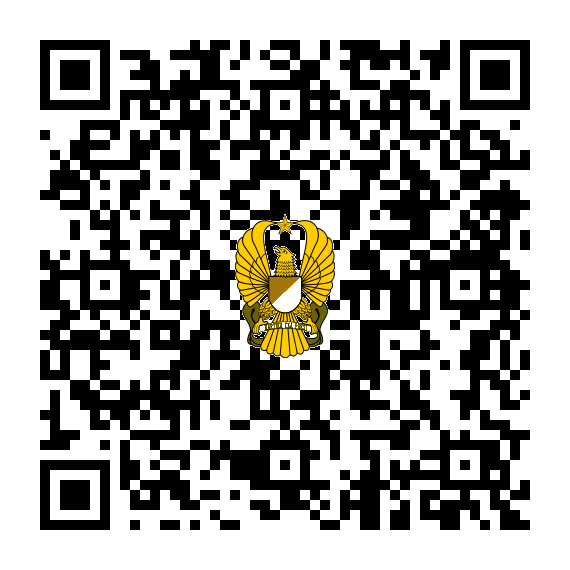
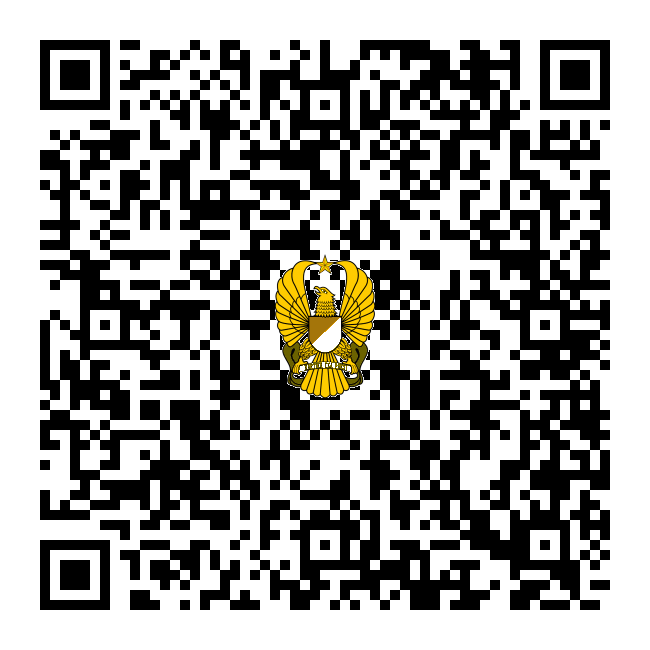
update tag kordinat tte

diff --git a/application/controllers/api/v1/Tte.php b/application/controllers/api/v1/Tte.php
@@ -165,6 +165,12 @@ class Tte extends General
             if (!$data || !isset($data['name'], $data['nik'], $data['sign_image'])) {
                 throw new Exception('Invalid input data');
             }
+
+            $existingData = $this->Tte_model->getAkunTTEbyNik($data['nik']);
+
+            if ($existingData->num_rows() > 0) {
+                throw new Exception('Akun dengan nik ini sudah ada');
+            }
     
             $in['name'] = $data['name'];
             $in['nik'] = $data['nik'];
@@ -219,6 +225,31 @@ class Tte extends General
             ]);
         }
     }
+    function deleteAkunTTE_post()
+    {
+        try {
+            $data = json_decode(file_get_contents('php://input'), true);
+    
+            $nik = $data['nik'];
+    
+            $this->Tte_model->deleteTTE($nik);
+            
+            echo json_encode([
+                'metadata' => [
+                    'code' => 200,
+                    'message' => 'Data delete successfully'
+                ],
+                'response' => $nik
+            ]);
+        } catch (Exception $e) {
+            echo json_encode([
+                'metadata' => [
+                    'code' => 400,
+                    'message' => $e->getMessage()
+                ]
+            ]);
+        }
+    }
     function signfile_post()
     {
         $data = $this->input->post();
@@ -236,6 +267,7 @@ class Tte extends General
             $fileType = $_FILES['file']['type'];
             $fileSize = $_FILES['file']['size'];
             $NameimageTTE = $this->Tte_model->getDataImageTTE($data['nik'])->row()->sign_image;
+            file_put_contents("tag", $data['tag']);
             $imageTTE = $_SERVER['DOCUMENT_ROOT'] . "/api_gateway/resources/image_tte/" . $NameimageTTE;
             $response = tteSign($data['nik'], $data['passphrase'], $tempFile, $data['tag'], $data['image'], $imageTTE);
             switch ($data['applications']) {
@@ -355,7 +387,7 @@ class Tte extends General
         $imageTTE = null;
         if($data['tampilan'] == 'visible'){
             $NameimageTTE = $this->Tte_model->getDataImageTTE($data['nik'])->row()->sign_image;
-            $text = "https://berkastte.rumkitsindhutrisno.com/webapps/berkastte/" . $fileName;
+            $text = "https://qrcodette.rssindhutrisnopalu.com/home/" . $data['location'] . "/" . $data['id'] . "/" . $fileName;
             $filePath = $_SERVER['DOCUMENT_ROOT'] . "/api_gateway/resources/image_tte/" . $NameimageTTE;
             $logoPath = $_SERVER['DOCUMENT_ROOT'] . "/api_gateway/assets/logo_qrcode.png";
             try {

diff --git a/application/helpers/tte_helper.php b/application/helpers/tte_helper.php
@@ -115,7 +115,7 @@ if (!function_exists('tte_helper')) {
                 'linkQR' => 'https://google.com',
                 'width' => $width,
                 'height' => $height,
-                'tag_koordinat' => "#"
+                'tag_koordinat' => $tag
                 // 'page'=>1,
 
             );
@@ -230,12 +230,13 @@ if (!function_exists('tte_helper')) {
         curl_close($curl);
         return $responseFile;
     }
-    function tteSign($nik = null, $passphrase = null, $tempFile = null, $tag = '#', $image = false, $imageFile = null)
+    function tteSign($nik = null, $passphrase = null, $tempFile = null, $tag = '|', $image = false, $imageFile = null)
     {
         $host = config_item("UrlBSSN") . "/api/sign/pdf";
         $curl = curl_init($host);
         $username = config_item("UsernameBSSN");
         $password = config_item("PasswordBSSN");
+        file_put_contents("tag", $tag);
         if ($image == true) {
             $fields = array(
                 'file' => new CurlFile(@$tempFile, 'application/pdf'),
@@ -243,10 +244,10 @@ if (!function_exists('tte_helper')) {
                 'nik' => $nik,
                 'passphrase' => $passphrase,
                 'tampilan' => 'visible',
-                'image' => 'true',
+                // 'image' => 'true',
                 'linkQR' => 'https://google.com',
-                'width' => '250',
-                'height' => '250',
+                'width' => '350',
+                'height' => '350',
                 'tag_koordinat' => $tag
             );
         } else {

diff --git a/application/models/Tte_model.php b/application/models/Tte_model.php
@@ -26,4 +26,24 @@ class Tte_model extends Api_model
         $query = $this->db->get();
         return $query;
     }
+    public function deleteTTE($nik)
+    {
+        if (!empty($nik)) {
+            $this->db->where('nik', $nik);
+            $result = $this->db->delete('akun_tte');
+            return $result;
+        } else {
+            return false;
+        }
+    }
+    public function getAkunTTEbyNik($nik)
+    {
+        if (!empty($nik)) {
+            $this->db->where('nik', $nik);
+            $result = $this->db->get('akun_tte');
+            return $result;
+        } else {
+            return false;
+        }
+    }
 }
